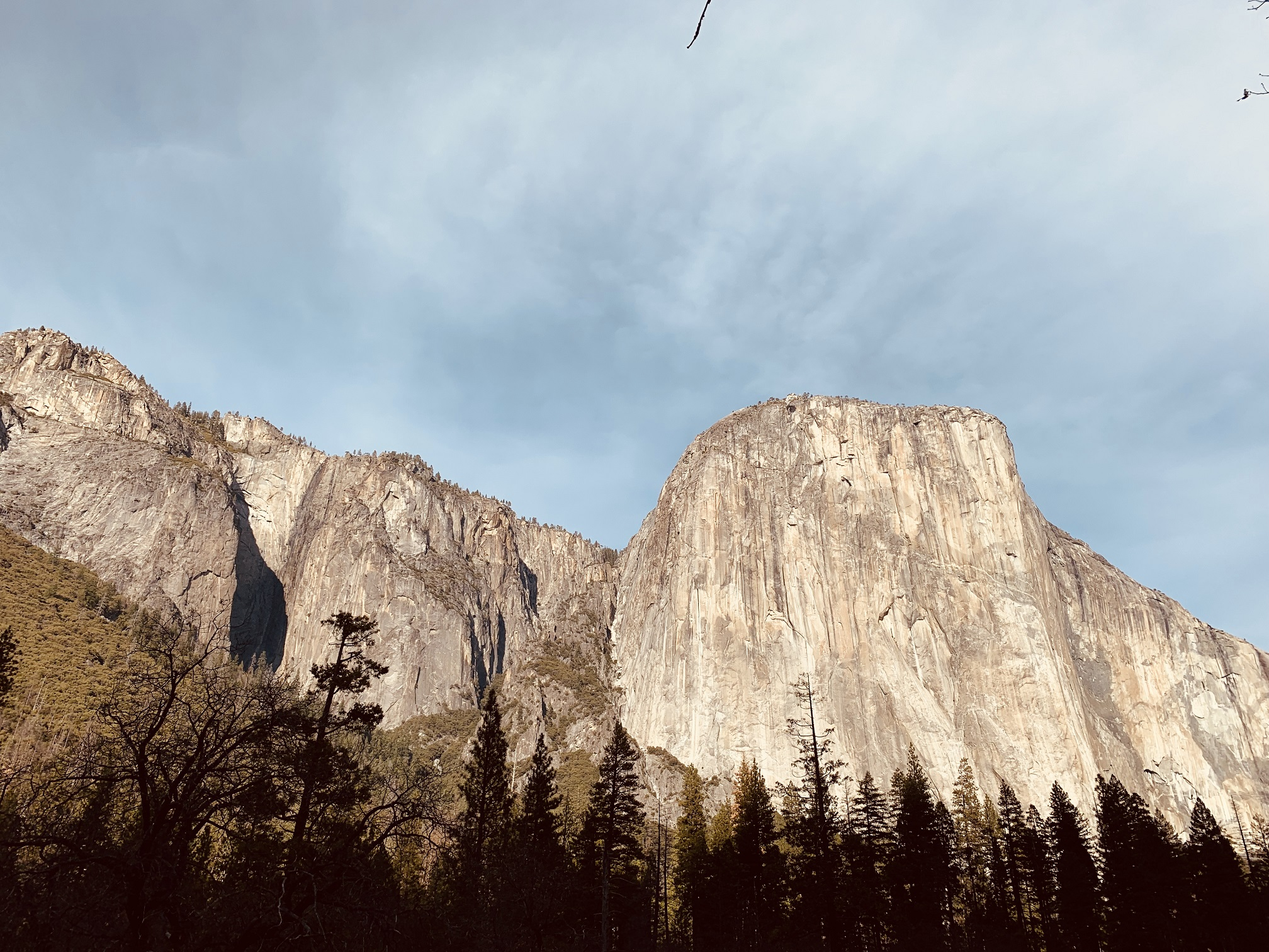
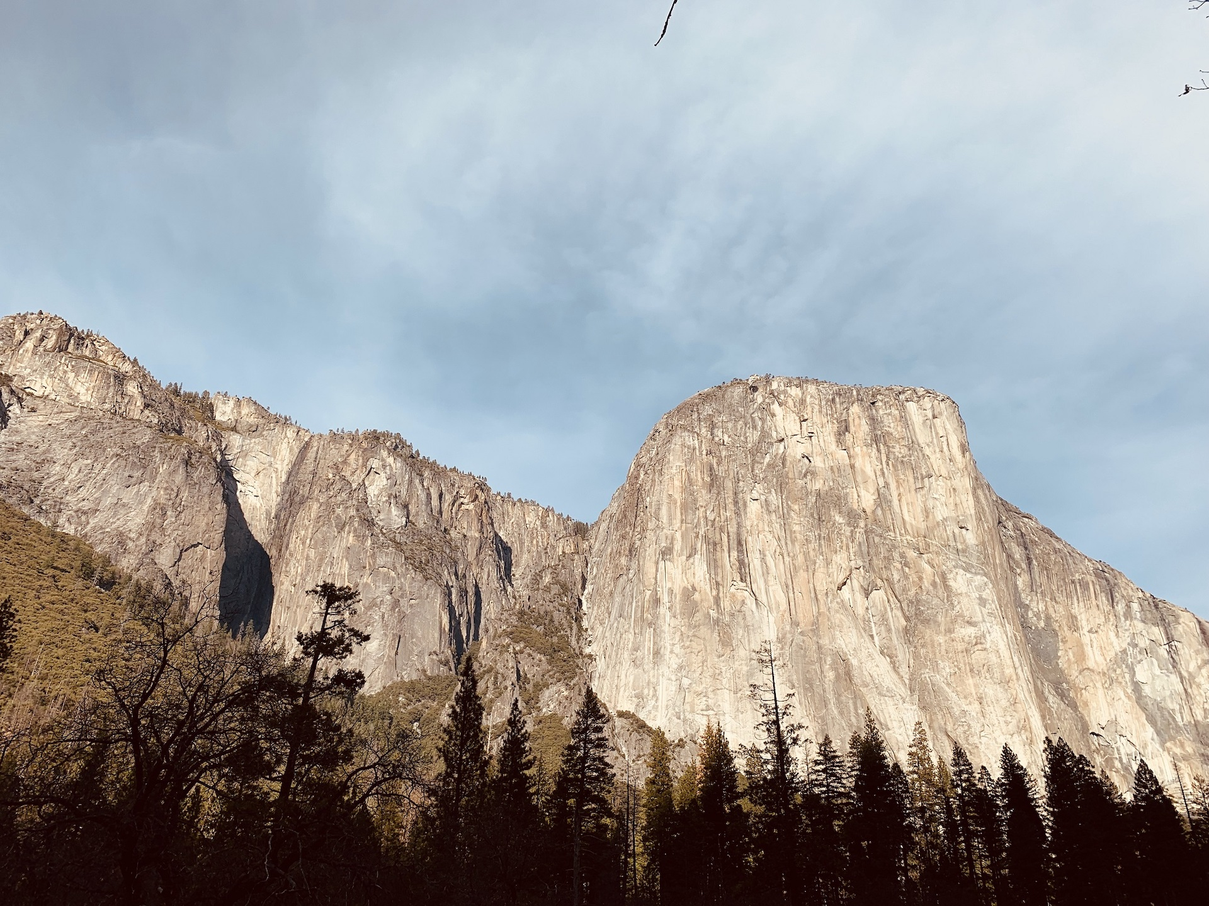
Change the background resolution

diff --git a/style.css b/style.css
@@ -8,7 +8,7 @@ html, body {
 
     font-family: 'Open Sans', sans-serif;
 
-    background-image: url("img/IMG_4156.jpg");
+    background-image: url("img/IMG_4156_1.jpg");
 
     /*Center and scale the image nicely*/
     background-position: center;
